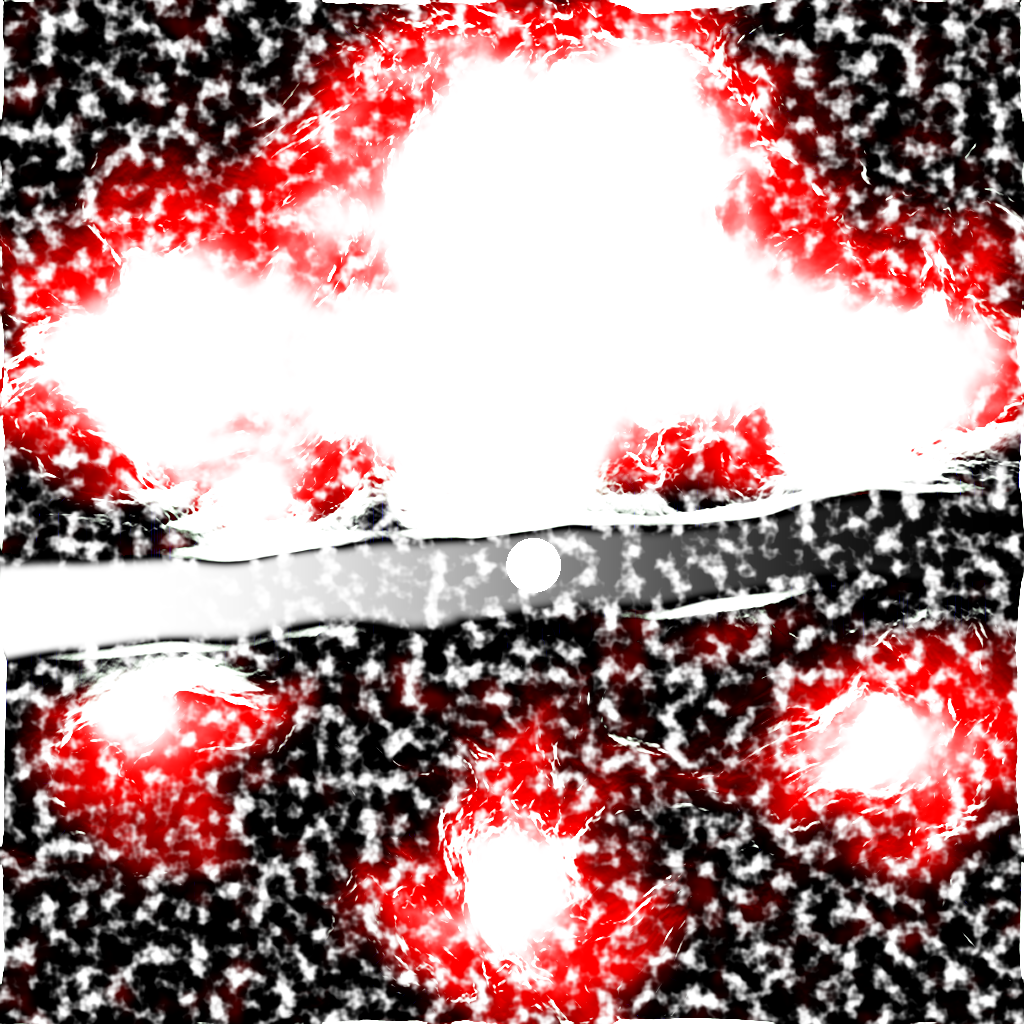
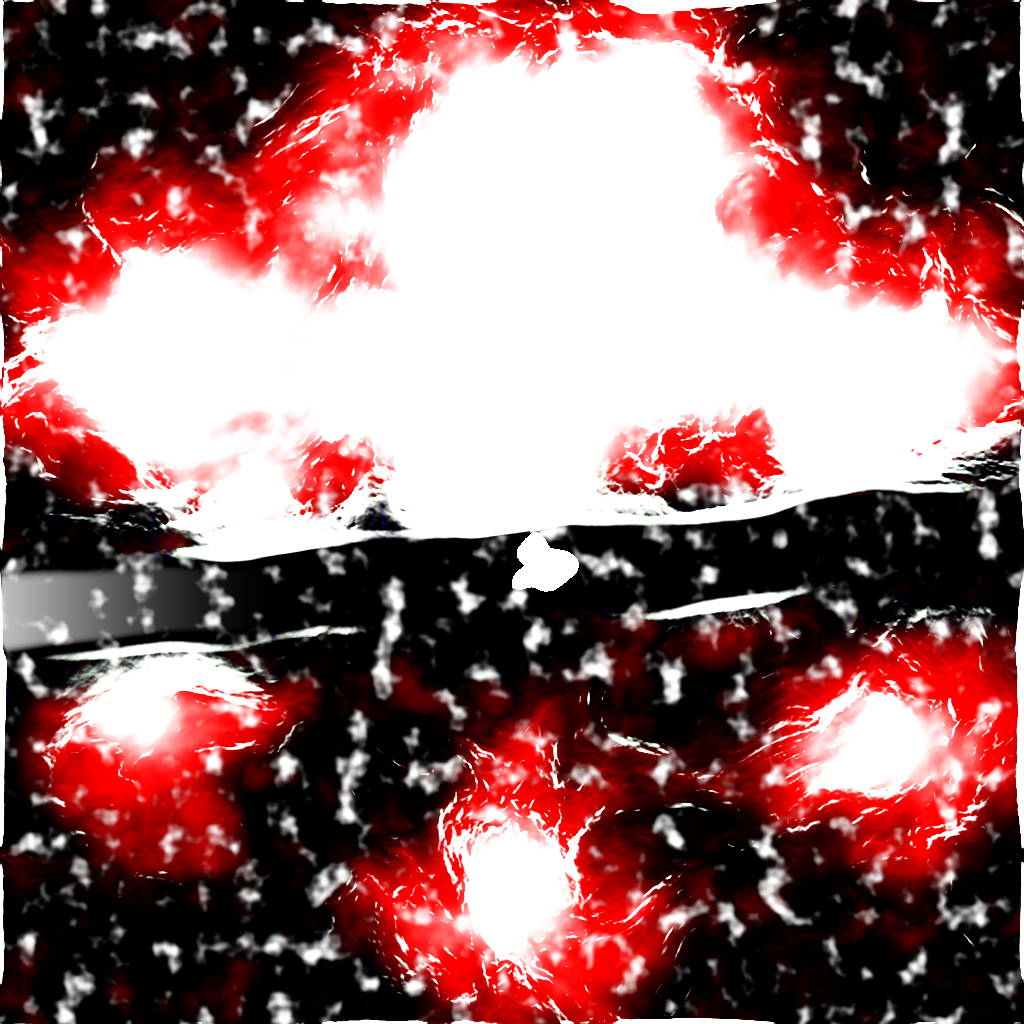
UI: stand-in vista range (irregular lake basin, valley forest, larches), lighting-only relief detail, greyer rock; loading-screen vista art
Claude-Session: https://claude.ai/code/session_01XgovobckuAwhAEYDF3dVkF

diff --git a/thin-air/tools/ui/gen_vista.py b/thin-air/tools/ui/gen_vista.py
@@ -209,10 +209,12 @@ def main():
     relief = np.clip((h - 1400.0) / 1700.0, 0.0, 1.0)
     h = h + fbm(X / 180.0, Z / 180.0, 4) * (4.0 + 26.0 * relief) + (ridged(X / 700.0, Z / 700.0, 4) - 0.4) * 60.0 * relief
     # valley floor, Loon Lake basin
-    dl = np.sqrt((X - 260) ** 2 + (Z - 640) ** 2)
+    th = np.arctan2(Z - 640, X - 260)
+    lobes = 1.0 + 0.22 * np.sin(3 * th + 1.0) + 0.12 * np.sin(5 * th + 2.3) + 0.35 * np.cos(th)   # an elongated, lobed lake
+    dl = np.sqrt((X - 260) ** 2 + (Z - 640) ** 2) / lobes + 18.0 * fbm(X / 120.0, Z / 120.0, 3)
     floor = 1392.0 + 0.004 * (X + 6000.0)
     h = np.where(valley < 0.3, floor + (h - floor) * smoothstep(0.02, 0.3, valley), h)
-    h = np.where(dl < 320, np.minimum(h, 1414.0 + (dl / 320.0) ** 2 * 26.0), h)
+    h = np.where(dl < 340, np.minimum(h, 1398.0 + (dl / 320.0) ** 2 * 26.0), h)
     h = thermal(h, CELL, iters=10, talus_deg=45.0)
     print("fine flow accumulation…")
     rec, dist, _ = receivers(h, CELL)
@@ -241,8 +243,8 @@ def main():
     gully = smoothstep(4.0, 7.0, np.log10(area * CELL * CELL + 1.0)) * smoothstep(18, 32, slope_deg)
     rock = smoothstep(33.0, 46.0, slope_deg + 8 * (n1 - 0.5)) * (1 - snow * 0.6)
     scree = np.clip(gully * (1 - snow) + smoothstep(26, 34, slope_deg) * smoothstep(1900, 2300, h) * (1 - snow) * 0.6, 0, 1)
-    forest = (1 - smoothstep(1980.0, 2180.0, h + 120 * (n1 - 0.5))) * smoothstep(1398.0, 1440.0, h) \
-        * (1 - smoothstep(30.0, 40.0, slope_deg)) * smoothstep(0.35, 0.6, fbm(X / 260.0, Z / 260.0, 3) * 0.5 + 0.55)
+    forest = (1 - smoothstep(1980.0, 2180.0, h + 120 * (n1 - 0.5))) * smoothstep(1385.0, 1405.0, h) \
+        * (1 - smoothstep(30.0, 40.0, slope_deg)) * smoothstep(0.3, 0.5, fbm(X / 420.0, Z / 420.0, 3) * 0.5 + 0.55)
     forest *= (dl > 330)
     masks = np.stack([snow, rock, scree, forest], -1)
     # ---- write
